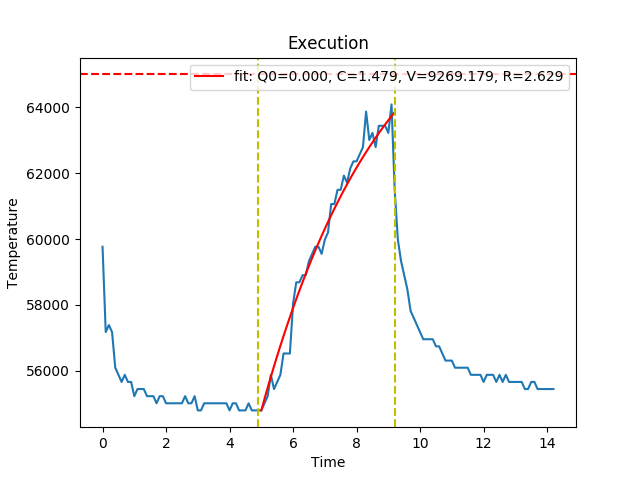
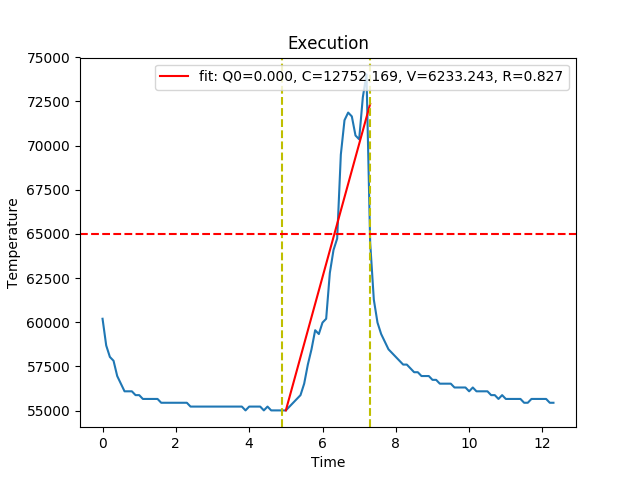
Temp plots

diff --git a/temp.py b/temp.py
@@ -1,6 +1,8 @@
 import os
 import time
 import subprocess
+import matplotlib
+matplotlib.use('Agg')
 import matplotlib.pyplot as plt
 import numpy as np
 from scipy.optimize import curve_fit
@@ -15,51 +17,69 @@ def get_temp():
 if __name__ == "__main__":
     env = dict(os.environ)
     env['LD_LIBRARY_PATH'] = './build/release'
-    T = 5
-    dt = 0.1
-    i = 0
-    x = []
-    y = []
-    x2 = []
-    y2 = []
-    for _ in range(int(T/dt)):
-        x.append(i)
-        y.append(get_temp())
-        time.sleep(dt)
-        i += dt
-    st = i - dt
-    p = subprocess.Popen(["./build/release/examples/graph_alexnet", "--target=NEON", "--therads=4"], env=env)
-    while p.poll() == None:
-        x.append(i)
-        y.append(get_temp())
-        time.sleep(dt)
-        i += dt
-        x2.append(x[-1])
-        y2.append(y[-1])
-    et = i - dt
-    for _ in range(int(T/dt)):
-        x.append(i)
-        y.append(get_temp())
-        time.sleep(dt)
-        i += dt
-    x3 = np.array(x2)
-    y3 = np.array(y2)
-    x3-=x3[0]
-    y3-=y3[0]
-    func = lambda t,q0,c,v,r:q0+c*v*(1-np.exp(- t/(r*c)))
-    popt, _ = curve_fit(func,x3,y3, bounds=(0,10000))
-    q0=popt[0]
-    c=popt[1]
-    v=popt[2]
-    r=popt[3] 
-    plt.plot(x, y)
-    plt.plot(x3+x2[0], y2[0]+func(x3, *popt), 'r-', label='fit: Q0=%5.3f, C=%5.3f, V=%5.3f, R=%5.3f' % tuple(popt))
-    plt.axvline(st, linestyle='--', color='y')
-    plt.axvline(et, linestyle='--', color='y')
-    plt.axhline(65000, linestyle='--', color='r')
-    plt.xlabel('Time')
-    plt.ylabel('Temperature')
-    plt.title('Execution')
-    plt.legend(loc='best')
-    plt.savefig('temp_plots/graph_alexnet.png')
-    
+    pp = "./build/release/examples/graph_"
+    cp = ["--target=NEON", "--threads=4"]
+    gp = ["--target=CL"]
+    sm = ["taskset", "-c", "0-3"]
+    configs = [
+        ('graph_alexnet', [pp+"alexnet"]+cp),
+        ('graph_mobilenet', [pp+"mobilenet"]+cp),
+        ('graph_resnet50', [pp+"resnet50"]+cp),
+        ('graph_alexnet03', sm+[pp+"alexnet"]+cp),
+        ('graph_mobilenet03', sm + [pp+"mobilenet"]+cp),
+        ('graph_resnet5003', sm+[pp+"resnet50"]+cp),
+        ('graph_alexnetgpu', [pp+"alexnet"]+gp),
+        ('graph_mobilenetgpu', [pp+"mobilenet"]+gp),
+        ('graph_resnet50gpu', [pp+"resnet50"]+gp)
+    ]
+    for name, cmd in configs:
+        print(name, "{", ' '.join(cmd)  ,"}")
+        T = 5
+        dt = 0.1
+        i = 0
+        x = []
+        y = []
+        x2 = []
+        y2 = []
+        for _ in range(int(T/dt)):
+            x.append(i)
+            y.append(get_temp())
+            time.sleep(dt)
+            i += dt
+        st = i - dt
+        p = subprocess.Popen(cmd, env=env)
+        while p.poll() == None:
+            x.append(i)
+            y.append(get_temp())
+            time.sleep(dt)
+            i += dt
+            x2.append(x[-1])
+            y2.append(y[-1])
+        et = i - dt
+        for _ in range(int(T/dt)):
+            x.append(i)
+            y.append(get_temp())
+            time.sleep(dt)
+            i += dt
+        x3 = np.array(x2)
+        y3 = np.array(y2)
+        x3-=x3[0]
+        y3-=y3[0]
+        func = lambda t,q0,c,v,r:q0+c*v*(1-np.exp(- t/(r*c)))
+        popt, _ = curve_fit(func,x3,y3, bounds=(0,np.inf))
+        print('Q0=%5.3f, C=%5.3f, V=%5.3f, R=%5.3f' % tuple(popt))
+        q0=popt[0]
+        c=popt[1]
+        v=popt[2]
+        r=popt[3] 
+        plt.plot(x, y)
+        plt.plot(x3+x2[0], y2[0]+func(x3, *popt), 'r-', label='fit: Q0=%5.3f, C=%5.3f, V=%5.3f, R=%5.3f' % tuple(popt))
+        plt.axvline(st, linestyle='--', color='y')
+        plt.axvline(et, linestyle='--', color='y')
+        plt.axhline(65000, linestyle='--', color='r')
+        plt.xlabel('Time')
+        plt.ylabel('Temperature')
+        plt.title('Execution')
+        plt.legend(loc='best')
+        plt.savefig('temp_plots/'+name+'.png')   
+        plt.clf()

diff --git a/examples/graph_resnet50.cpp b/examples/graph_resnet50.cpp
@@ -63,7 +63,7 @@ public:
         ARM_COMPUTE_EXIT_ON_MSG(common_params.data_type == DataType::F16 && common_params.target == Target::NEON, "F16 NEON not supported for this graph");
 
         // Print parameter values
-        std::cout << common_params << std::endl;
+        //std::cout << common_params << std::endl;
 
         // Get trainable parameters data path
         std::string data_path = common_params.data_path;
@@ -126,16 +126,9 @@ public:
 
     void do_run() override
     {
-        // Run graph
-        //graph.run();
-        auto tbegin =std::chrono::high_resolution_clock::now();
-	for (int i=0; i <100; i++){
-        graph.run();
+	for (int i=0; i <10; i++){
+            graph.run();
 	}
-        auto tend = std::chrono::high_resolution_clock::now();
-        double gross = std::chrono::duration_cast<std::chrono::duration<double>>(tend-tbegin).count();
-	double cost = gross/100;
-        std::cout << "Cost:" << "\t" << cost << "\n" << std::endl;
     }
 
 private:

diff --git a/examples/graph_mobilenet.cpp b/examples/graph_mobilenet.cpp
@@ -71,7 +71,7 @@ public:
         ARM_COMPUTE_EXIT_ON_MSG(common_params.data_type == DataType::F16 && common_params.target == Target::NEON, "F16 NEON not supported for this graph");
 
         // Print parameter values
-        std::cout << common_params << std::endl;
+        //std::cout << common_params << std::endl;
 
         // Get model parameters
         int model_id = model_id_opt->value();
@@ -115,16 +115,9 @@ public:
     }
     void do_run() override
     {
-        // Run graph
-        //graph.run();
-        auto tbegin =std::chrono::high_resolution_clock::now();
-	for (int i=0; i <100; i++){
-        graph.run();
+	for (int i=0; i <10; i++){
+            graph.run();
 	}
-        auto tend = std::chrono::high_resolution_clock::now();
-        double gross = std::chrono::duration_cast<std::chrono::duration<double>>(tend-tbegin).count();
-	double cost = gross/100;
-        std::cout << "Cost:" << "\t" << cost << "\n" << std::endl;
     }
 
 private:
